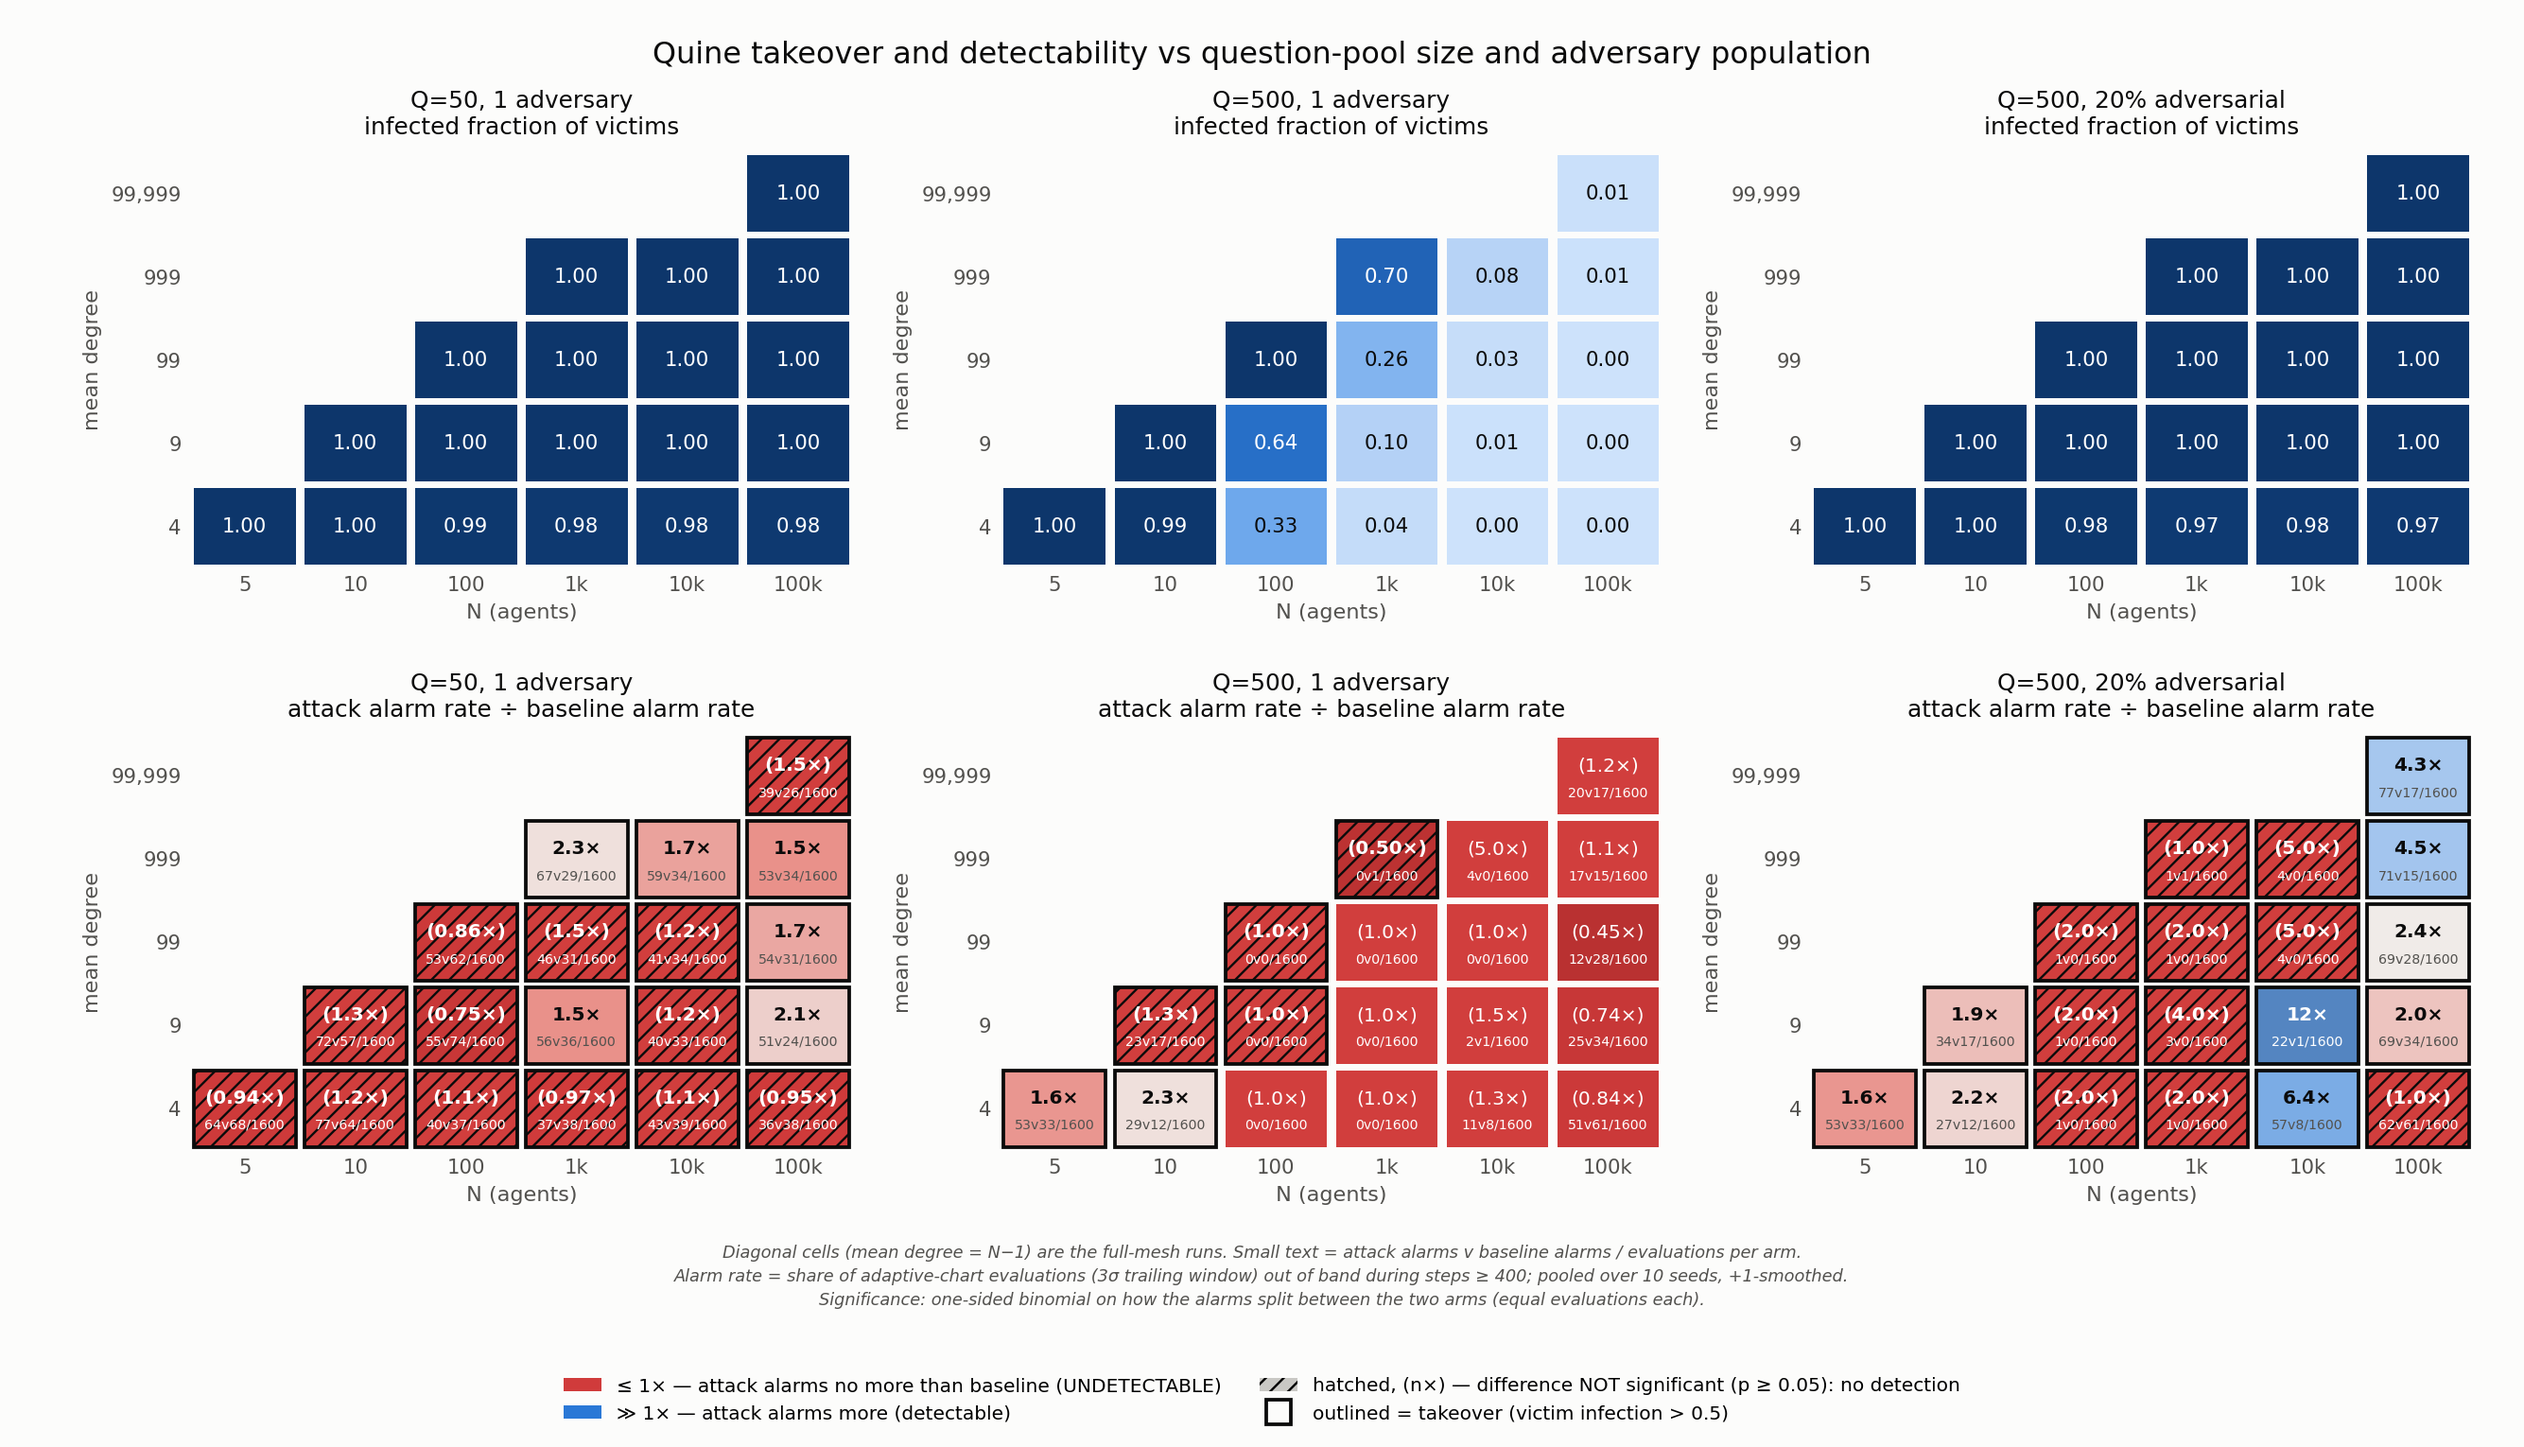
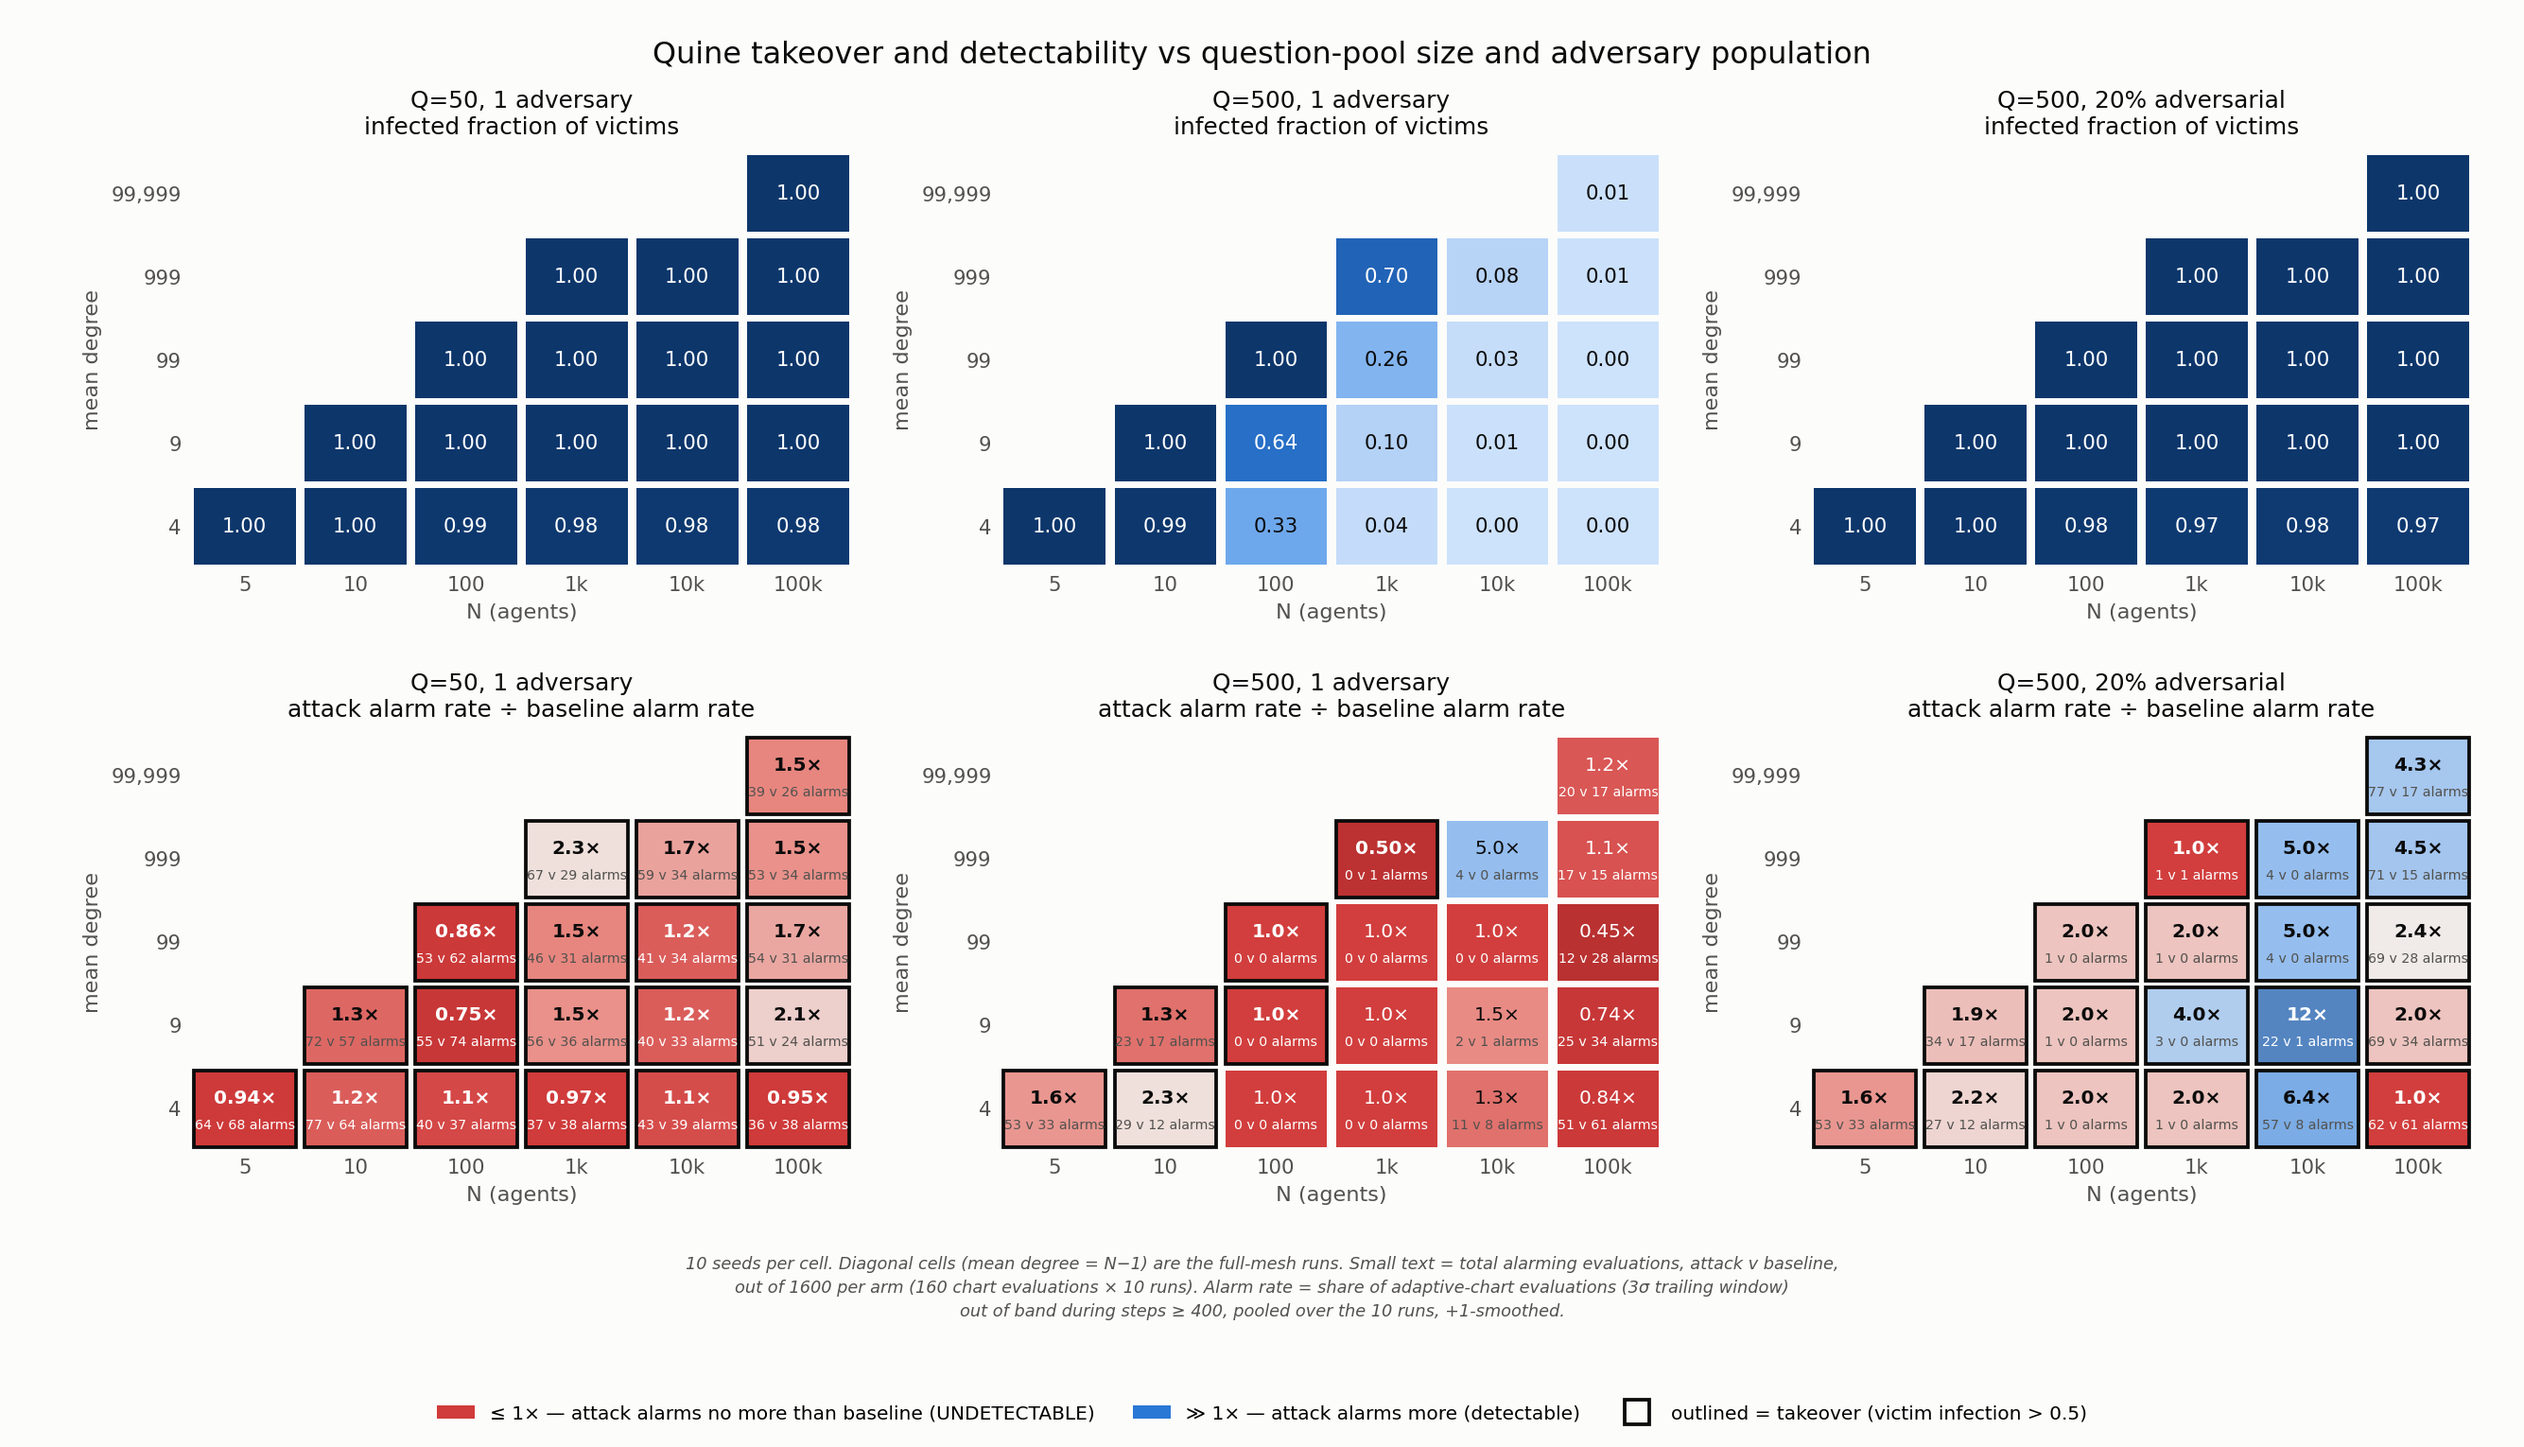
detect_grid figure: color strictly by alarm ratio, drop hatching/recolor
Reverts the significance-based recoloring: a cell at 5x was being painted red
because its alarm split failed a binomial test, which contradicts the spec that
color encodes the ratio. Ratio alone drives color now; raw alarm counts stay
printed so small-count cells can be read directly.

diff --git a/src/controlcharts/fastsim/plot_grids.py b/src/controlcharts/fastsim/plot_grids.py
@@ -141,12 +141,11 @@ def main():
     fig.subplots_adjust(left=0.075, right=0.98, top=0.895, bottom=0.205,
                         hspace=0.40, wspace=0.22)
 
-    def rect(ax, x, y, color, outline=False, hatch=None):
+    def rect(ax, x, y, color, outline=False):
         ax.add_patch(plt.Rectangle((x + 0.04, y + 0.04), 0.92, 0.92,
                                    facecolor=color,
                                    edgecolor=INK if outline else "none",
-                                   linewidth=1.6 if outline else 0,
-                                   hatch=hatch))
+                                   linewidth=1.6 if outline else 0))
 
     for col, (label, g) in enumerate(grids.items()):
         ax = axes[0][col]; ax.set_facecolor(SURFACE)
@@ -167,22 +166,19 @@ def main():
                 e = g.get((N, dg))
                 if e is None or e["ratio"] is None:
                     continue
-                # A ratio above 1 that is NOT statistically significant is the
-                # +1 smoothing on a handful of alarms, not a detection: paint
-                # it at the undetectable end and hatch it.
-                shown = e["ratio"] if e["sig"] else min(e["ratio"], 1.0)
-                t = (np.clip(np.log10(shown), -LOGLIM, LOGLIM) + LOGLIM) / (2 * LOGLIM)
+                # Color is the ratio, full stop: <=1 red (undetectable), >1
+                # shading to blue, lower = hotter.
+                t = (np.clip(np.log10(e["ratio"]), -LOGLIM, LOGLIM) + LOGLIM) / (2 * LOGLIM)
                 taken = e["inf"] is not None and e["inf"] > 0.5
-                rect(ax2, xi, yi, cmap_div(t), outline=taken,
-                     hatch=None if e["sig"] else "///")
-                lbl = rfmt(e["ratio"]) if e["sig"] else f"({rfmt(e['ratio'])})"
-                ax2.text(xi + .5, yi + .62, lbl, ha="center", va="center",
-                         fontsize=8.5, color="#ffffff" if (t <= .53 or t > .82) else INK,
+                rect(ax2, xi, yi, cmap_div(t), outline=taken)
+                dark = t <= .53 or t > .82
+                ax2.text(xi + .5, yi + .62, rfmt(e["ratio"]), ha="center", va="center",
+                         fontsize=8.5, color="#ffffff" if dark else INK,
                          fontweight="bold" if taken else "normal")
                 ax2.text(xi + .5, yi + .30,
-                         f"{e['adv_alarms']}v{e['base_alarms']}/{e['evals']}",
+                         f"{e['adv_alarms']} v {e['base_alarms']} alarms",
                          ha="center", va="center", fontsize=6,
-                         color="#ffffff" if (t <= .53 or t > .82) else INK2)
+                         color="#ffffff" if dark else INK2)
         ax2.set_title(f"{label}\nattack alarm rate ÷ baseline alarm rate",
                       fontsize=10.5, color=INK, pad=8)
 
@@ -201,17 +197,15 @@ def main():
 
     legend = [Patch(facecolor="#d03b3b", label="≤ 1× — attack alarms no more than baseline (UNDETECTABLE)"),
               Patch(facecolor="#2a78d6", label="≫ 1× — attack alarms more (detectable)"),
-              Patch(facecolor="#c9c8c4", hatch="///",
-                    label="hatched, (n×) — difference NOT significant (p ≥ 0.05): no detection"),
               Line2D([0], [0], marker="s", linestyle="none", markersize=11,
                      markerfacecolor="none", markeredgecolor=INK, markeredgewidth=1.6,
                      label="outlined = takeover (victim infection > 0.5)")]
-    fig.legend(handles=legend, loc="lower center", ncol=2, frameon=False,
+    fig.legend(handles=legend, loc="lower center", ncol=3, frameon=False,
                fontsize=8.5, bbox_to_anchor=(0.5, 0.005))
-    fig.text(0.5, 0.098,
-             "Diagonal cells (mean degree = N−1) are the full-mesh runs. Small text = attack alarms v baseline alarms / evaluations per arm.\n"
-             "Alarm rate = share of adaptive-chart evaluations (3σ trailing window) out of band during steps ≥ 400; pooled over 10 seeds, +1-smoothed.\n"
-             "Significance: one-sided binomial on how the alarms split between the two arms (equal evaluations each).",
+    fig.text(0.5, 0.090,
+             "10 seeds per cell. Diagonal cells (mean degree = N−1) are the full-mesh runs. Small text = total alarming evaluations, attack v baseline,\n"
+             "out of 1600 per arm (160 chart evaluations × 10 runs). Alarm rate = share of adaptive-chart evaluations (3σ trailing window)\n"
+             "out of band during steps ≥ 400, pooled over the 10 runs, +1-smoothed.",
              ha="center", fontsize=7.5, color=INK2, style="italic", linespacing=1.5)
     fig.suptitle("Quine takeover and detectability vs question-pool size and adversary population",
                  fontsize=13.5, color=INK, y=0.972)
